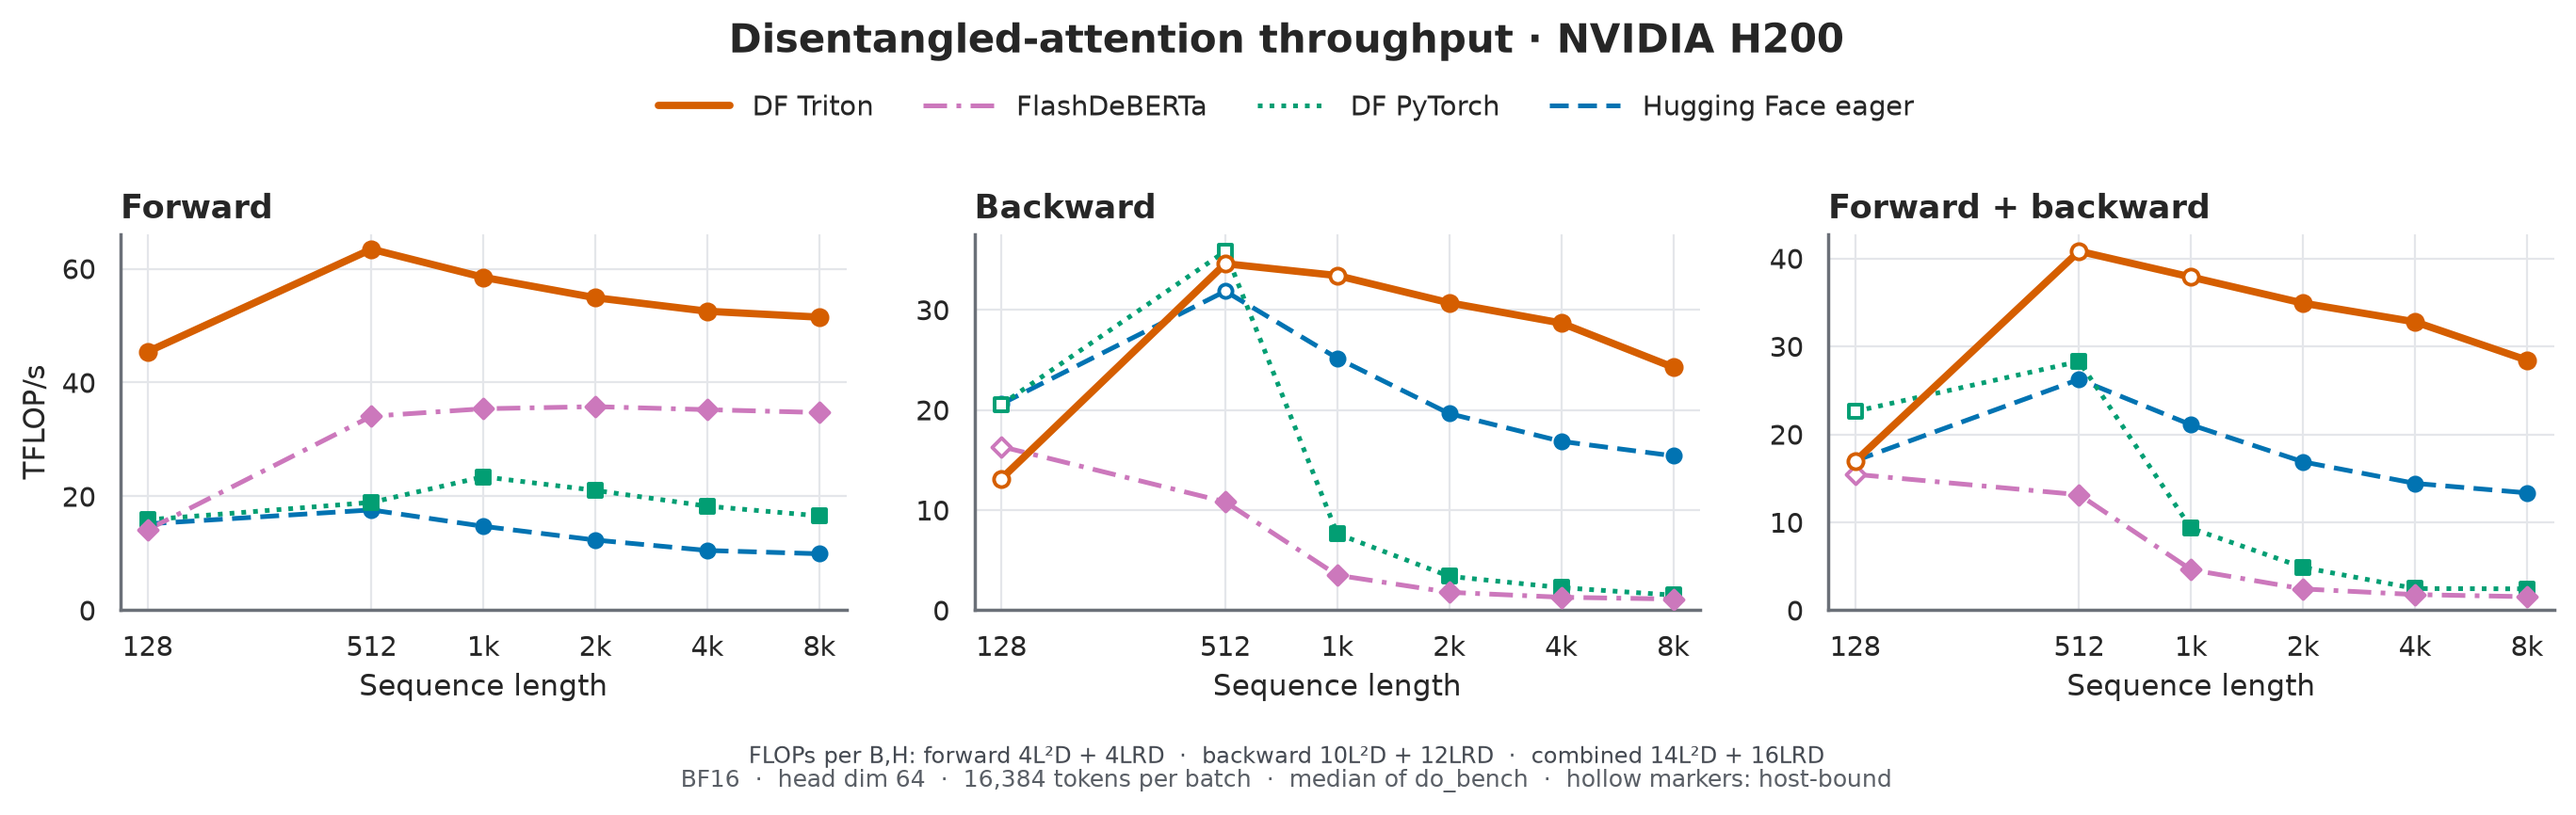
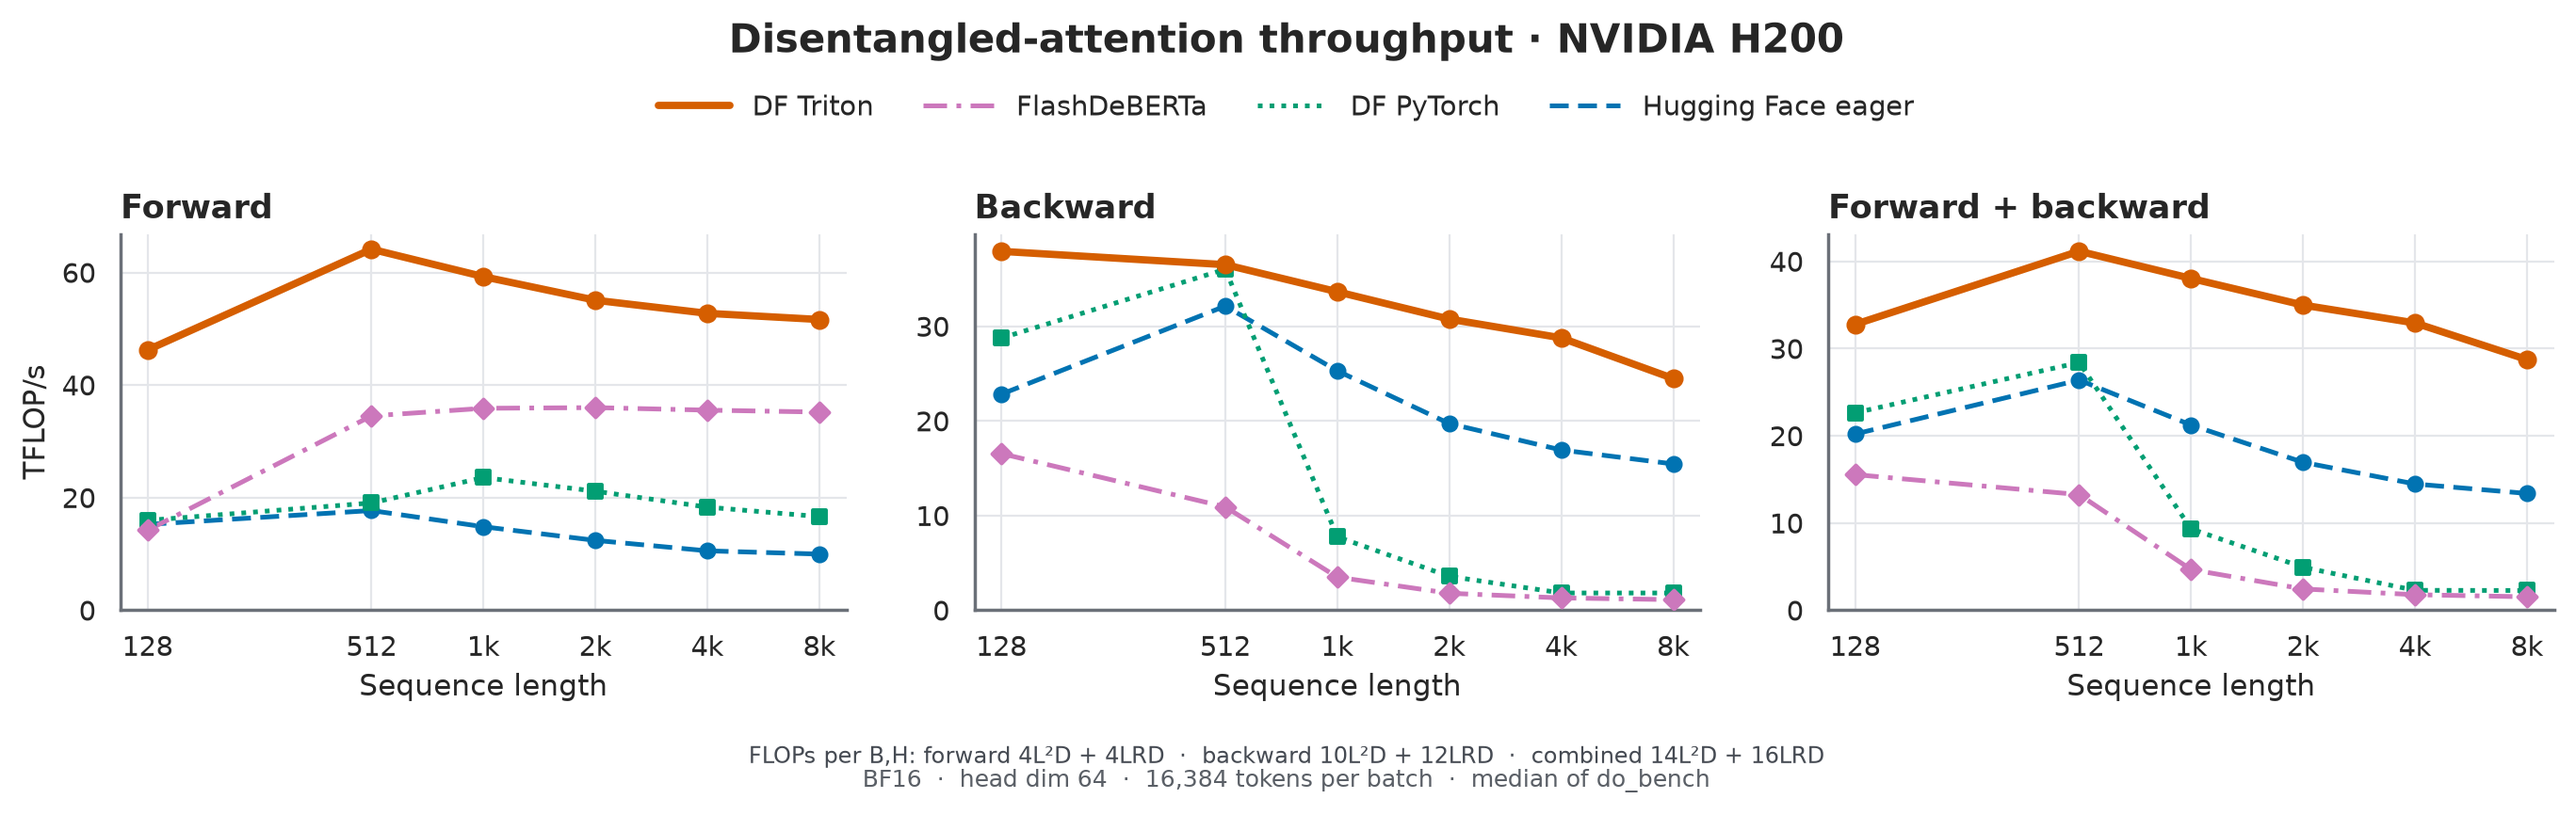
docs: refresh H200 results and simplify plots

diff --git a/benchmarks/plot_cuda_results.py b/benchmarks/plot_cuda_results.py
@@ -19,8 +19,6 @@ import seaborn as sns
 from matplotlib.ticker import FuncFormatter
 
 GIB = 1024**3
-# Host issue time at or above this fraction of latency marks a CPU-bound point.
-HOST_BOUND_FRACTION = 0.8
 _PALETTE = sns.color_palette("colorblind")
 SERIES = (
     ("base", "Hugging Face eager", _PALETTE[0], "o", (4, 2), 1.8),
@@ -103,13 +101,7 @@ def _memory_ticks(values: pd.Series) -> tuple[float, ...]:
     return tuple(ticks)
 
 
-def _host_bound(rows: pd.DataFrame) -> pd.Series:
-    if "host_ms_per_iter" not in rows:
-        return pd.Series(False, index=rows.index)
-    return rows["host_ms_per_iter"] >= HOST_BOUND_FRACTION * rows["p50_ms"]
-
-
-def _plot_series(axis: Any, panel: pd.DataFrame, metric: str, *, mark_host_bound: bool) -> None:
+def _plot_series(axis: Any, panel: pd.DataFrame, metric: str) -> None:
     for implementation, label, color, marker, dashes, linewidth in SERIES:
         rows = panel[panel["implementation"].eq(implementation)].sort_values("sequence_length")
         if rows.empty:
@@ -123,18 +115,16 @@ def _plot_series(axis: Any, panel: pd.DataFrame, metric: str, *, mark_host_bound
             zorder=3 if implementation == "triton" else 2,
         )
         line.set_dashes(dashes or (None, None))
-        host_bound = _host_bound(rows) if mark_host_bound else pd.Series(False, index=rows.index)
-        for hollow, points in rows.groupby(host_bound):
-            axis.scatter(
-                points["sequence_length"],
-                points[metric],
-                marker=marker,
-                s=34 if implementation == "triton" else 26,
-                facecolor="white" if hollow else color,
-                edgecolor=color,
-                linewidth=1.4,
-                zorder=4,
-            )
+        axis.scatter(
+            rows["sequence_length"],
+            rows[metric],
+            marker=marker,
+            s=34 if implementation == "triton" else 26,
+            facecolor=color,
+            edgecolor=color,
+            linewidth=1.4,
+            zorder=4,
+        )
 
 
 def _style_axis(axis: Any, lengths: list[int], tick_labels: list[str]) -> None:
@@ -173,7 +163,7 @@ def _make_metric_figure(
     for index, pass_mode in enumerate(passes):
         axis = axes[index]
         panel = usable[usable["pass"].eq(pass_mode)]
-        _plot_series(axis, panel, metric, mark_host_bound=timing)
+        _plot_series(axis, panel, metric)
         _style_axis(axis, lengths, tick_labels)
         axis.set_title(PASS_TITLES[pass_mode], loc="left", fontweight="bold")
         axis.set_xlabel("Sequence length")
@@ -214,7 +204,7 @@ def _make_metric_figure(
             "FLOPs per B,H: forward 4L²D + 4LRD  ·  "
             "backward 10L²D + 12LRD  ·  combined 14L²D + 16LRD"
         )
-        setup_footer += "  ·  median of do_bench  ·  hollow markers: host-bound"
+        setup_footer += "  ·  median of do_bench"
         figure.text(0.5, 0.048, formula_footer, ha="center", fontsize=8.7, color="#454A52")
     figure.text(0.5, 0.018, setup_footer, ha="center", fontsize=9, color="#5A5F66")
     figure.tight_layout(rect=(0, 0.085 if timing else 0.05, 1, 0.9), w_pad=2.2)

diff --git a/README.md b/README.md
@@ -91,8 +91,8 @@ These are BF16 attention-layer results with 12 heads, head dimension 64,
 DeBERTa C2P/P2C attention. DF Triton uses the built-in heuristic, not a tuned
 profile.
 
-Both machines used PyTorch 2.14.0+cu130, Triton 3.8.0, CUDA 13.0, and
-FlashDeBERTa 0.0.7; Transformers was 5.17.0 on H200 and 5.18.0 on RTX.
+Both machines used PyTorch 2.14.0+cu130, Triton 3.8.0, CUDA 13.0,
+Transformers 5.18.0, and FlashDeBERTa 0.0.7.
 
 TFLOP/s is FLOPs divided by time. For batch `B`, heads `H`, length `L`, head
 dimension `D`, and `R` active relative-position rows, we count
@@ -106,7 +106,7 @@ gathers, and projection layers.
 
 ![Attention kernel incremental peak memory on H200](docs/figures/kernel_memory_h200.png)
 
-At length 8192, DF Triton is 5.19× faster than Hugging Face forward and 2.13×
+At length 8192, DF Triton is 5.18× faster than Hugging Face forward and 2.15×
 faster for forward+backward. Incremental peak memory is 0.47 GiB forward and
 1.30 GiB combined, versus 19.07 GiB and 19.47 GiB for Hugging Face.
 
@@ -120,6 +120,11 @@ At length 8192, DF Triton is 14.4× faster than Hugging Face forward and 5.04×
 faster combined; against FlashDeBERTa it is 1.57× and 17.6× faster. Peak memory
 matches the H200 run. All 72 cases completed without allocator retries or
 `cudaMalloc` calls during timing.
+
+Short backward cases are sensitive to Python, autograd, and launch overhead;
+on H200 this dominates the length-128 backward measurements. Longer sequences
+are GPU-compute dominated. The plots show measured eager throughput without a
+separate host-bound marker.
 
 ### Benchmark methodology
 
@@ -209,7 +214,7 @@ decision parity. The release command is:
 ```bash
 python -m benchmarks.evaluate_mnli \
   --dtype fp16 \
-  --batch-size 16 \
+  --batch-size 8 \
   --bucket 512 \
   --require-full-parity \
   --tuning-mode heuristic \
@@ -218,23 +223,19 @@ python -m benchmarks.evaluate_mnli \
 
 ### H200
 
-On the full 9,815-example split in FP16 at batch size 16, every backend reached
+On the full 9,815-example split in FP16 at batch size 8, every backend reached
 91.74% accuracy with zero decision mismatches against Hugging Face.
 
-| Variant | Full-split time | Speedup vs. HF eager | Decision mismatches | Maximum absolute logit difference |
-| --- | ---: | ---: | ---: | ---: |
-| Hugging Face eager, padded | 53.27 s | 1.00× | Reference | 0 |
-| DF Triton, padded | 23.25 s | 2.29× | 0 / 9,815 | 0.0752 |
-| DF Triton, packed | 6.94 s | 7.68× | 0 / 9,815 | 0.0752 |
-| FlashDeBERTa, packed | 22.00 s | 2.42× | 0 / 9,815 | 0.0801 |
-
-This is decision parity, not bitwise logit equality. The recorded BF16 run did
-not meet full decision parity, so the release claim uses FP16.
+| Variant | Cold time | Compiled-cache time | Cold speedup | Compiled speedup | Decision mismatches |
+| --- | ---: | ---: | ---: | ---: | ---: |
+| Hugging Face eager, padded | 55.49 s | 55.70 s | 1.00× | 1.00× | Reference |
+| DF Triton, padded | 24.24 s | 23.38 s | 2.29× | 2.38× | 0 / 9,815 |
+| DF Triton, packed | **11.52 s** | **9.99 s** | **4.82×** | **5.58×** | 0 / 9,815 |
+| FlashDeBERTa, packed | 24.41 s | 23.99 s | 2.27× | 2.32× | 0 / 9,815 |
 
 ### RTX PRO 6000 Blackwell
 
-At batch size 8, the first run includes JIT compilation; the second reuses the
-persistent Triton cache. Both runs kept 91.74% accuracy and zero mismatches.
+The same FP16, batch-8 setup also kept 91.74% accuracy and zero mismatches.
 
 | Variant | Cold full-split time | Compiled-cache time | Cold speedup vs HF | Compiled speedup vs HF | Decision mismatches |
 | --- | ---: | ---: | ---: | ---: | ---: |
@@ -243,12 +244,15 @@ persistent Triton cache. Both runs kept 91.74% accuracy and zero mismatches.
 | DF Triton, packed | **8.28 s** | **7.33 s** | **10.73×** | **12.10×** | 0 / 9,815 |
 | FlashDeBERTa, packed | 39.16 s | 38.86 s | 2.27× | 2.28× | 0 / 9,815 |
 
-`heuristic` skips configuration search, not JIT compilation. Set
-`TRITON_CACHE_DIR` to fast persistent storage: a cold run writes compiled
-artifacts, and later processes read them before the first iteration. Slow cache
-I/O can dominate startup even when no recompilation is needed. The 0.95-second
-cold-to-cached difference for packed DF Triton also includes normal run-to-run
-variation.
+Cold timings include JIT compilation; compiled-cache timings come from a new
+process reusing those binaries. `heuristic` skips configuration search, not
+compilation. Put `TRITON_CACHE_DIR` on fast persistent storage: cold runs write
+artifacts and later processes read them before the first iteration, so slow
+cache I/O can dominate startup. These differences also include normal
+run-to-run variation.
+
+This is decision parity, not bitwise logit equality. The recorded BF16 run did
+not meet full decision parity, so the release claim uses FP16.
 
 ## CUDA validation
 
